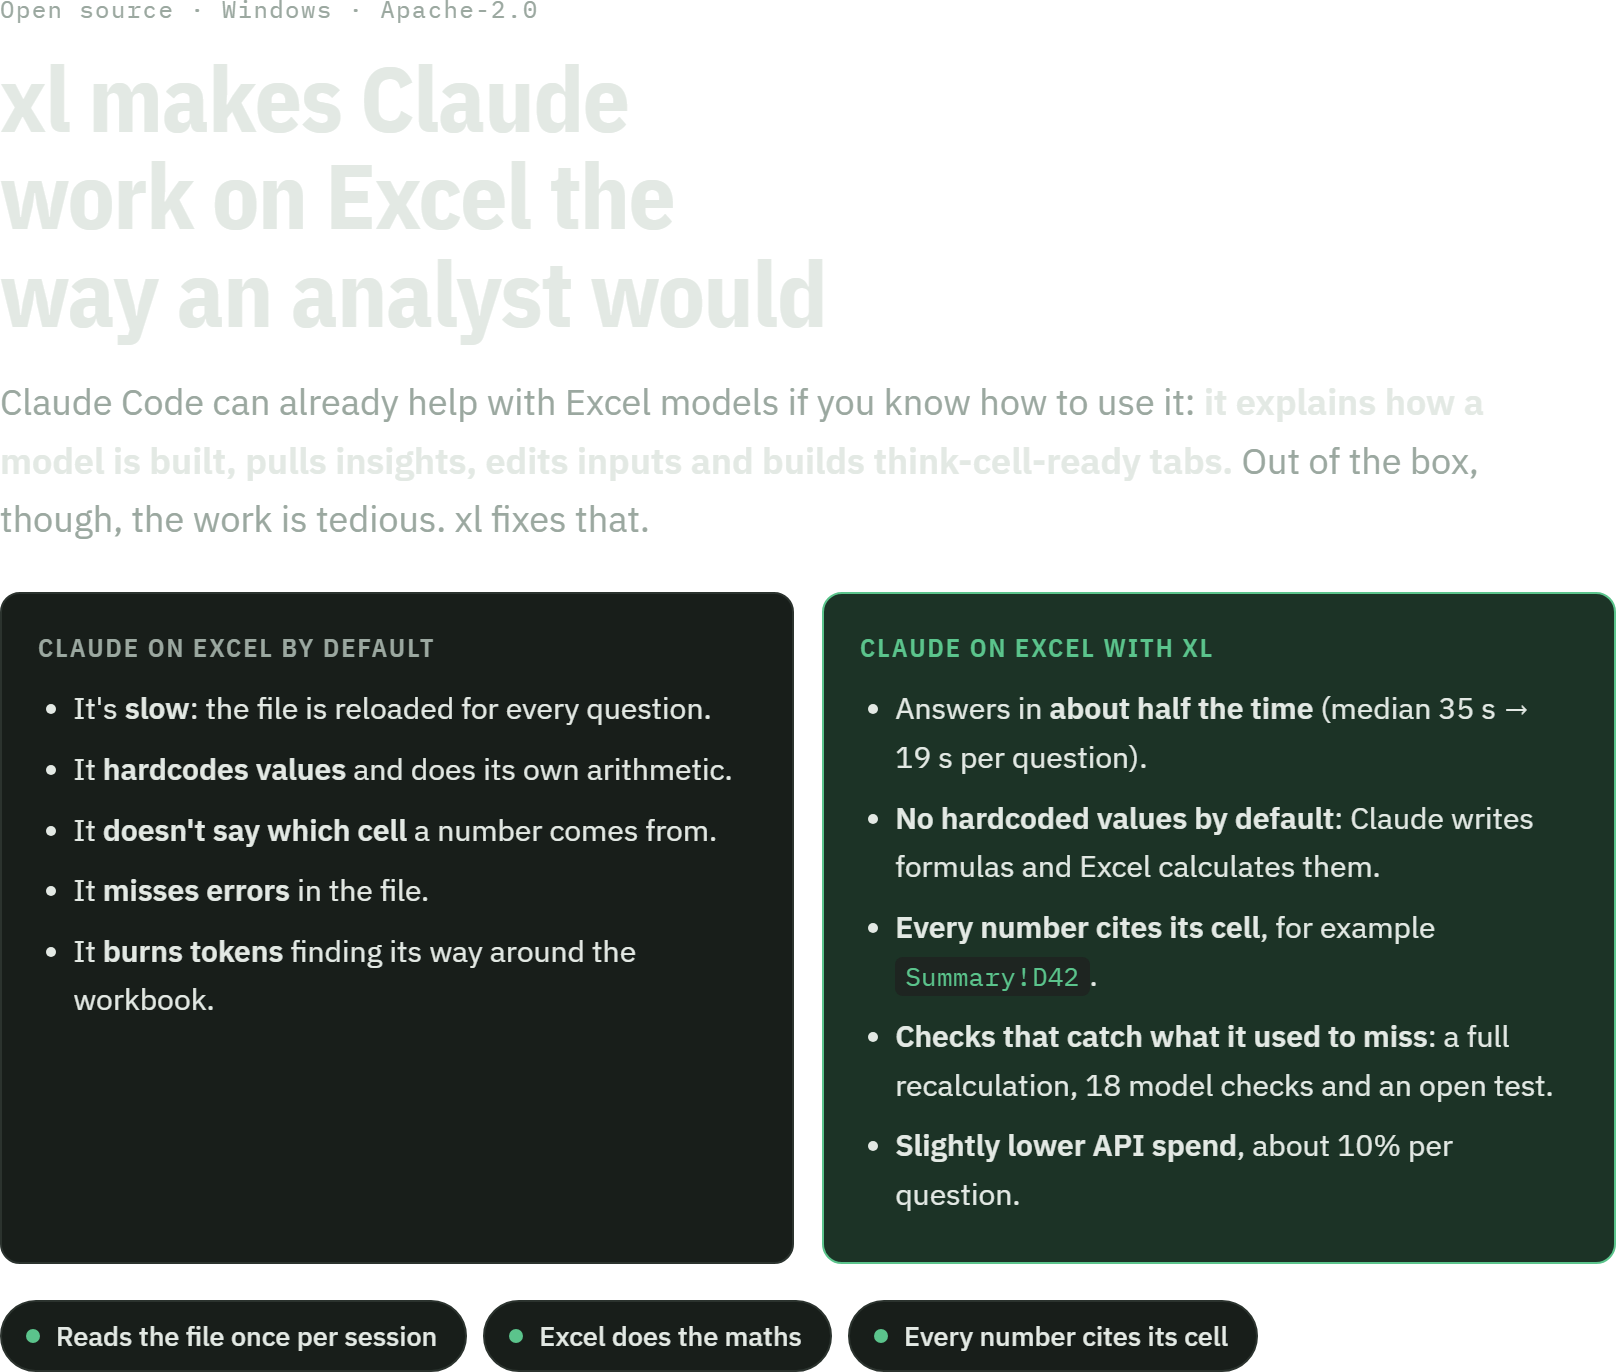
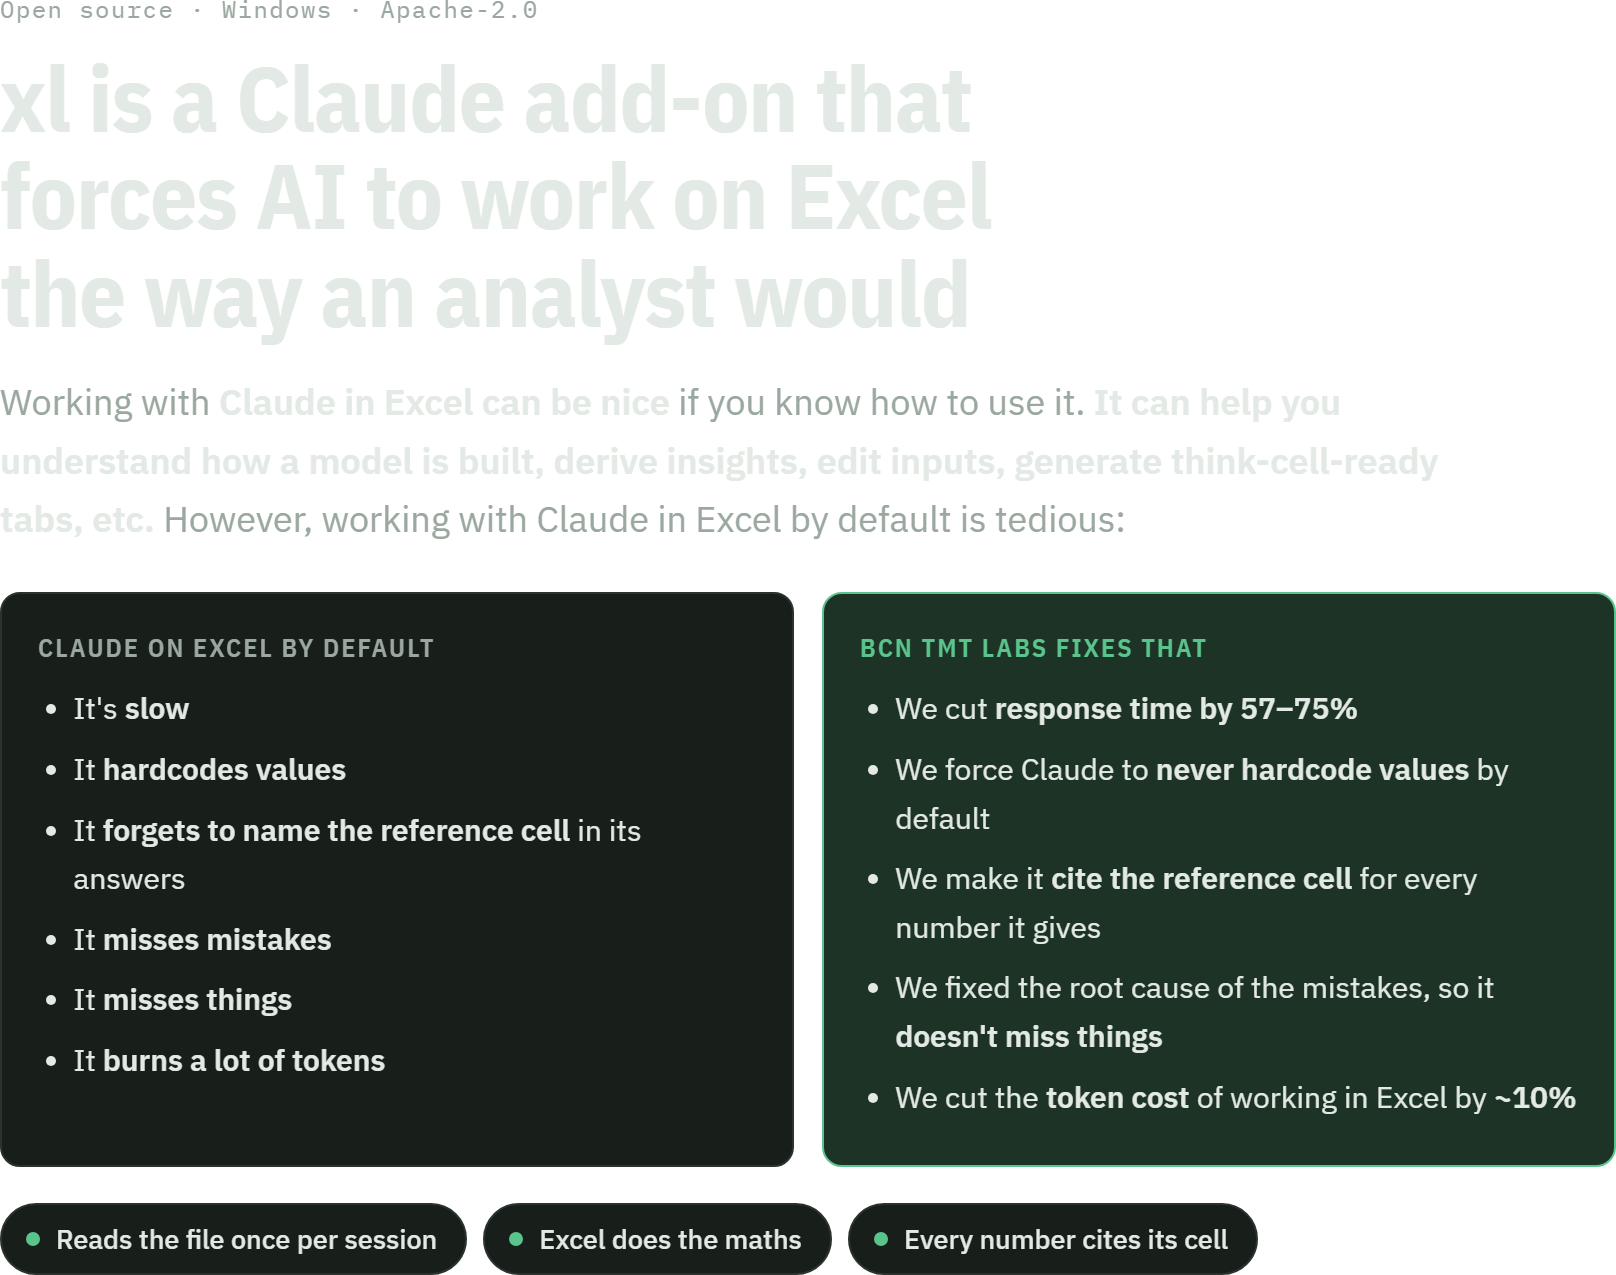
docs: restore the original intro wording, numbers in step with the benchmark

diff --git a/docs/index.html b/docs/index.html
@@ -175,27 +175,28 @@
 
   <header>
     <p class="eyebrow">Open source · Windows · Apache-2.0</p>
-    <h1>xl makes Claude work on Excel the way an analyst would</h1>
-    <p class="lede">Claude Code can already help with Excel models if you know how to use it: <b>it explains how a model is built, pulls insights, edits inputs and builds think-cell-ready tabs.</b> Out of the box, though, the work is tedious. xl fixes that.</p>
+    <h1>xl is a Claude add-on that forces AI to work on Excel the way an analyst would</h1>
+    <p class="lede">Working with <b>Claude in Excel can be nice</b> if you know how to use it. <b>It can help you understand how a model is built, derive insights, edit inputs, generate think-cell-ready tabs, etc.</b> However, working with Claude in Excel by default is tedious:</p>
     <div class="versus">
       <div class="vcol">
         <h2>Claude on Excel by default</h2>
         <ul>
-          <li>It's <b>slow</b>: the file is reloaded for every question.</li>
-          <li>It <b>hardcodes values</b> and does its own arithmetic.</li>
-          <li>It <b>doesn't say which cell</b> a number comes from.</li>
-          <li>It <b>misses errors</b> in the file.</li>
-          <li>It <b>burns tokens</b> finding its way around the workbook.</li>
+          <li>It's <b>slow</b></li>
+          <li>It <b>hardcodes values</b></li>
+          <li>It <b>forgets to name the reference cell</b> in its answers</li>
+          <li>It <b>misses mistakes</b></li>
+          <li>It <b>misses things</b></li>
+          <li>It <b>burns a lot of tokens</b></li>
         </ul>
       </div>
       <div class="vcol xl">
-        <h2>Claude on Excel with xl</h2>
+        <h2>BCN TMT Labs fixes that</h2>
         <ul>
-          <li>Answers in <b>about half the time</b> (median 35&nbsp;s → 19&nbsp;s per question).</li>
-          <li><b>No hardcoded values by default</b>: Claude writes formulas and Excel calculates them.</li>
-          <li><b>Every number cites its cell</b>, for example <span class="addr">Summary!D42</span>.</li>
-          <li><b>Checks that catch what it used to miss</b>: a full recalculation, 18 model checks and an open test.</li>
-          <li><b>Slightly lower API spend</b>, about 10% per question.</li>
+          <li>We cut <b>response time by 57–75%</b></li>
+          <li>We force Claude to <b>never hardcode values</b> by default</li>
+          <li>We make it <b>cite the reference cell</b> for every number it gives</li>
+          <li>We fixed the root cause of the mistakes, so it <b>doesn't miss things</b></li>
+          <li>We cut the <b>token cost</b> of working in Excel by <b>~10%</b></li>
         </ul>
       </div>
     </div>

diff --git a/README.md b/README.md
@@ -1,6 +1,6 @@
 <picture>
   <source media="(prefers-color-scheme: dark)" srcset="docs/readme/hero-dark.png">
-  <img src="docs/readme/hero-light.png" width="100%" alt="xl makes Claude work on Excel the way an analyst would. By default Claude Code is slow on Excel, hardcodes values, doesn't say which cell a number comes from, misses errors and burns tokens. With xl it answers in about half the time, writes formulas that Excel calculates, cites the cell for every number, runs a full recalculation, 18 model checks and an open test, and spends about 10% less per question.">
+  <img src="docs/readme/hero-light.png" width="100%" alt="xl is a Claude add-on that forces AI to work on Excel the way an analyst would. By default Claude in Excel is slow, hardcodes values, forgets to name the reference cell, misses mistakes and burns a lot of tokens. BCN TMT Labs fixes that: response time down 57 to 75%, no hardcoded values by default, a reference cell for every number, the root cause of the mistakes fixed, and token cost down about 10%.">
 </picture>
 
 **Needs:** Windows · desktop Excel · [Claude Code](https://claude.com/claude-code) &nbsp;|&nbsp;
